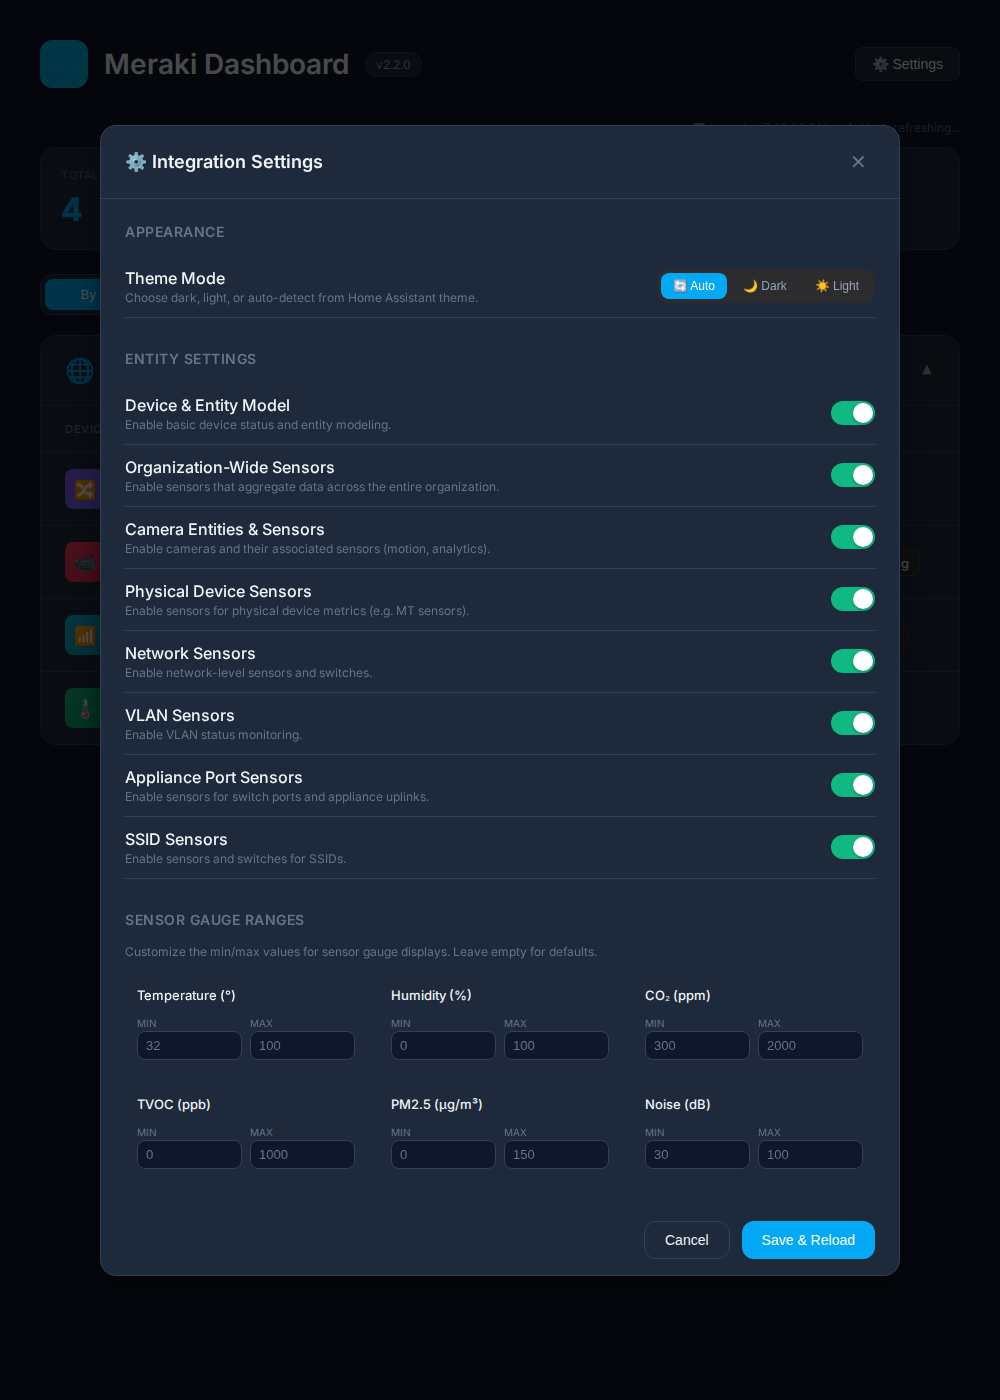
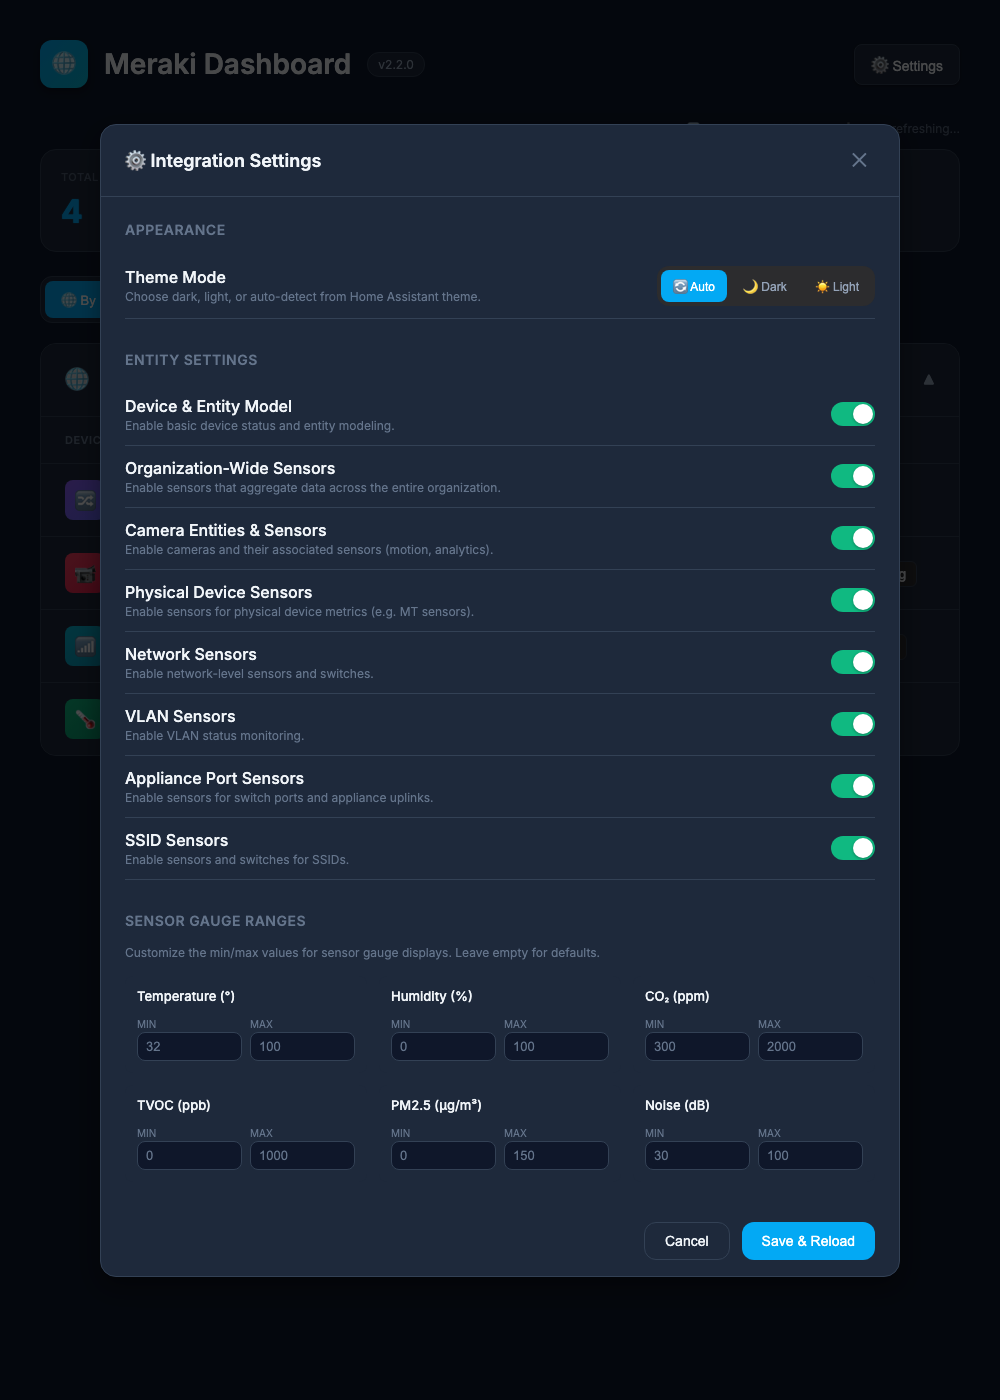
fix(ci): make screenshot generation resilient and non-blocking
- Use button:has-text selector for more reliable navigation matching
- Add try/except blocks for navigation steps that may fail
- Add fallback to reload page if navigation buttons not found
- Make CI workflow continue-on-error for screenshot step
- Log warning instead of failing if screenshots incomplete
- Regenerate all screenshots with latest UI

diff --git a/scripts/generate_screenshots.py b/scripts/generate_screenshots.py
@@ -632,12 +632,22 @@ def generate_screenshots() -> None:
 
             # Screenshot 8: SSID View
             print("Capturing SSID view...")
-            # Go back to clients view first
-            page.click("text=Back to Clients")
-            page.wait_for_timeout(500)
-            # Then back to dashboard
-            page.click("text=Back to Dashboard")
-            page.wait_for_timeout(1500)
+            # Go back to dashboard - use the back button (with arrow character)
+            # Try multiple selectors to handle different button text formats
+            try:
+                # First try to click Back to Clients (may have arrow prefix)
+                page.click("button:has-text('Back to Clients')", timeout=5000)
+                page.wait_for_timeout(500)
+            except Exception:
+                pass  # May already be on clients view or navigation changed
+            try:
+                # Then back to dashboard
+                page.click("button:has-text('Back to Dashboard')", timeout=5000)
+                page.wait_for_timeout(1500)
+            except Exception:
+                # If we can't find back button, try navigating via dashboard link
+                page.goto(f"http://127.0.0.1:{TEST_PORT}/screenshot.html")
+                page.wait_for_timeout(2000)
             # Set viewport
             page.set_viewport_size({"width": 1400, "height": 1000})
             # Click on "Active SSIDs" stat card to go to SSID view
